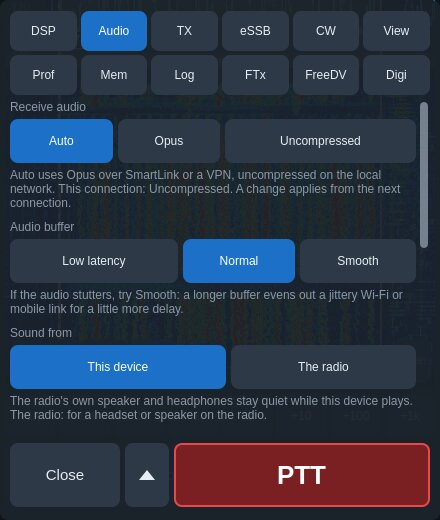
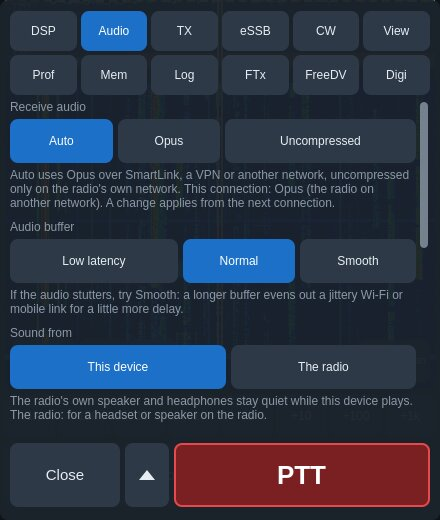
mobile: build 185 / Android beta 99 as a preview: the network panel fix (100) to test on the iPad
Notes: the new build's What to Test (the network details open again,
thanks Scott W5SLS; 184 moved to RECENT), Android beta 99's notes and
release tag, the roadmap's next build, the preview marker. The manual's
Audio tab picture re-rendered on the FLEX (the Auto line's new wording).

Claude-Session: https://claude.ai/code/session_01KANojkzU64KoozGDbNDzRK

Changed region(s): [[0.0295, 0.3077, 0.9159, 0.4]]

diff --git a/mobile/ROADMAP.md b/mobile/ROADMAP.md
@@ -5,6 +5,8 @@ queued, waiting on someone, or still to verify follows.
 
 ## Next build
 
+Build 185 / beta 99, a preview (the user, 2026-11-18: "Tehdään nyt tuo korjaus ...", then the preview: "Juu"; Hanno's knob after it): **100** the Network & performance panel without text-sized layout rows (the iOS polish loop that froze the app: Scott W5SLS's iPhone, the developer's iPad); with it the purpose strings naming OksaSDR (98), Controls › Audio's Auto line naming another network, and the iOS CI keeping the unstripped binary for .ips reports. To test on the iPad, then an iPhone: the network quality tapped, the details open a minute, closed and opened again.
+
 Build 184 / beta 98, released 2026-11-17 (PuJu: "PuJu kaikille", straight to everyone after the ThinkPad's L7 test; planned as 183, the iOS run number made it 184; App Store Connect answered HTTP 500 and then empty tester and group lists for about four hours: the upload went at the second try, What to Test and TestGroup at 23:05 by hand, the notes script now retries server errors and fails on an empty group list) (chosen by the user 2026-11-17: "92", then 93, 94 and the log line from the offer, then 95 and 96; with them the ThinkPad's findings: hidden panadapters narrow, the zoom on the passband, Auto audio Opus when the radio is on another network): **92** slices on other bands than their panadapter's (each band its own panadapter within the radio's limits, the FTx / Digi tabs saying when a decoding slice is outside its band); **93** the Tuner Genius XL's Tune from a MIDI button (Hanno DK3HV); **94** the 3D view no longer switched off by a busy GUI thread (Mohammed A71AT); **84 (k)** the background time's log line ("held ... 2147483647 s": iOS gives no limit while it keeps the app running, now said so). Waiting: Hanno's PTT (MOX or PTT (hold) on his button), Christoph's reports on 182. Not in it: the reconnect after an audio interruption in the background (Mohammed, idea). Beside it, the Linux build for own use: 91 (e) audio devices, (f) the GUI stalls' stack, (g) frame rate and memory.
 
 Build 182 / beta 97, released 2026-11-16 as a tested preview (the user: "Otetaan ja sitten PuJu"; the iPad on the preview, 23:43-23:46: Wi-Fi off and on with the app in the background, the session back in the background 9 s after the drop, connect_ready in 0.7 s instead of 53 s, then a run of quick drops ending connected 3 s after the app went to the background; the slice on 80 m as before) (the user, 2026-11-16, after the iPad test of build 181: all four chosen): **84 (j)** the SmartLink reconnect finishing in the background (iOS background time while it runs; iOS suspended the app halfway through it once its audio stopped), **86 (a)** the DX cluster's network-change message for as long as the refusals go on, with the SSID tip, and no stray *Connection timeout* after a refused login, **88** Radio Setup without empty space under its shorter sections, **89** each logged QSO to a logging program on the network in WSJT-X's UDP format (RUMlogNG, Christoph DM5HF); then (the user: "Tee") **90** F1-F12 and Esc on a Mac, and F1-F12, ⌘1-⌘0 and Esc from the Log tab's fields (Christoph DM5HF); the log names the slice the app uses after each (re)connect.

diff --git a/mobile/android/RELEASE_NOTES.md b/mobile/android/RELEASE_NOTES.md
@@ -1,6 +1,10 @@
-**OksaSDR for Android — beta 98.** A FlexRadio client for Android phones and tablets, built on the [AetherSDR](https://github.com/aethersdr/AetherSDR) engine: the same app as on the iPhone and iPad (TestFlight), from the same code.
+**OksaSDR for Android — beta 99.** A FlexRadio client for Android phones and tablets, built on the [AetherSDR](https://github.com/aethersdr/AetherSDR) engine: the same app as on the iPhone and iPad (TestFlight), from the same code.
 
-### New in beta 98
+### New in beta 99
+- **The network details can no longer freeze the app** (roadmap 100): tapping the network quality in the top row (the dot, CPU and memory) froze the app on iPhones and iPads and iOS closed it (thanks Scott Stanford W5SLS); Android did not freeze, but the panel is the same code, so it is built the new way here too: its rows keep one height whatever their figures, and it looks as before.
+- **Receive audio Auto, the hint**: the line under Controls › Audio › **Receive audio** now says it uses Opus over SmartLink, a VPN or another network, uncompressed only on the radio's own network (as beta 98 does).
+
+### Still new from beta 98
 - **Slices on several bands, each heard** (roadmap 92): a FlexRadio panadapter covers one stretch of one band, and a slice taken to another band while it stayed on the same panadapter heard nothing (or another slice's audio): FT8 on four bands with one panadapter decoded on one of them only. Now a slice you take to another band than the other slices on its panadapter (**Band**, a typed frequency, a spot, a memory, the FTx tab's bands) gets a panadapter of its own and keeps its letter, mode and TX; the limits are the radio's own (a FLEX-6700 takes eight slices). A slice still left outside its panadapter's band has an orange outline, and the FTx tab says why it decodes nothing. Only the panadapter on the screen streams at full width; the others are sent narrow while hidden (their slices go on receiving and decoding), so several bands fit a slow link.
 - **FT8 on one slice and FT4 on another at once** (roadmap 96): **FT8** / **FT4** on the FTx tab is now chosen per slice, for the active one, so slice A can decode FT8 on 7.074 while slice B decodes FT4 on 7.0475. A slice on a mode's dial frequency starts in that mode, an FT4 decode shows its time with the seconds (as WSJT-X), and transmitting, the slot bar and the log go by the TX slice's mode.
 - **The logbooks and accounts in Radio Setup › Logging** (roadmap 95): the Log tab's one-time settings (the ADIF import, the station and the QRZ.com account, Wavelog / Cloudlog, the QRZ.com Logbook, the shared ADIF file, Logger32 and the logging program) moved to Radio Setup's new **Logging** tab, so the Log tab keeps its room for logging. The Log tab shows where each QSO also goes, and **Logbooks…** opens the tab.
